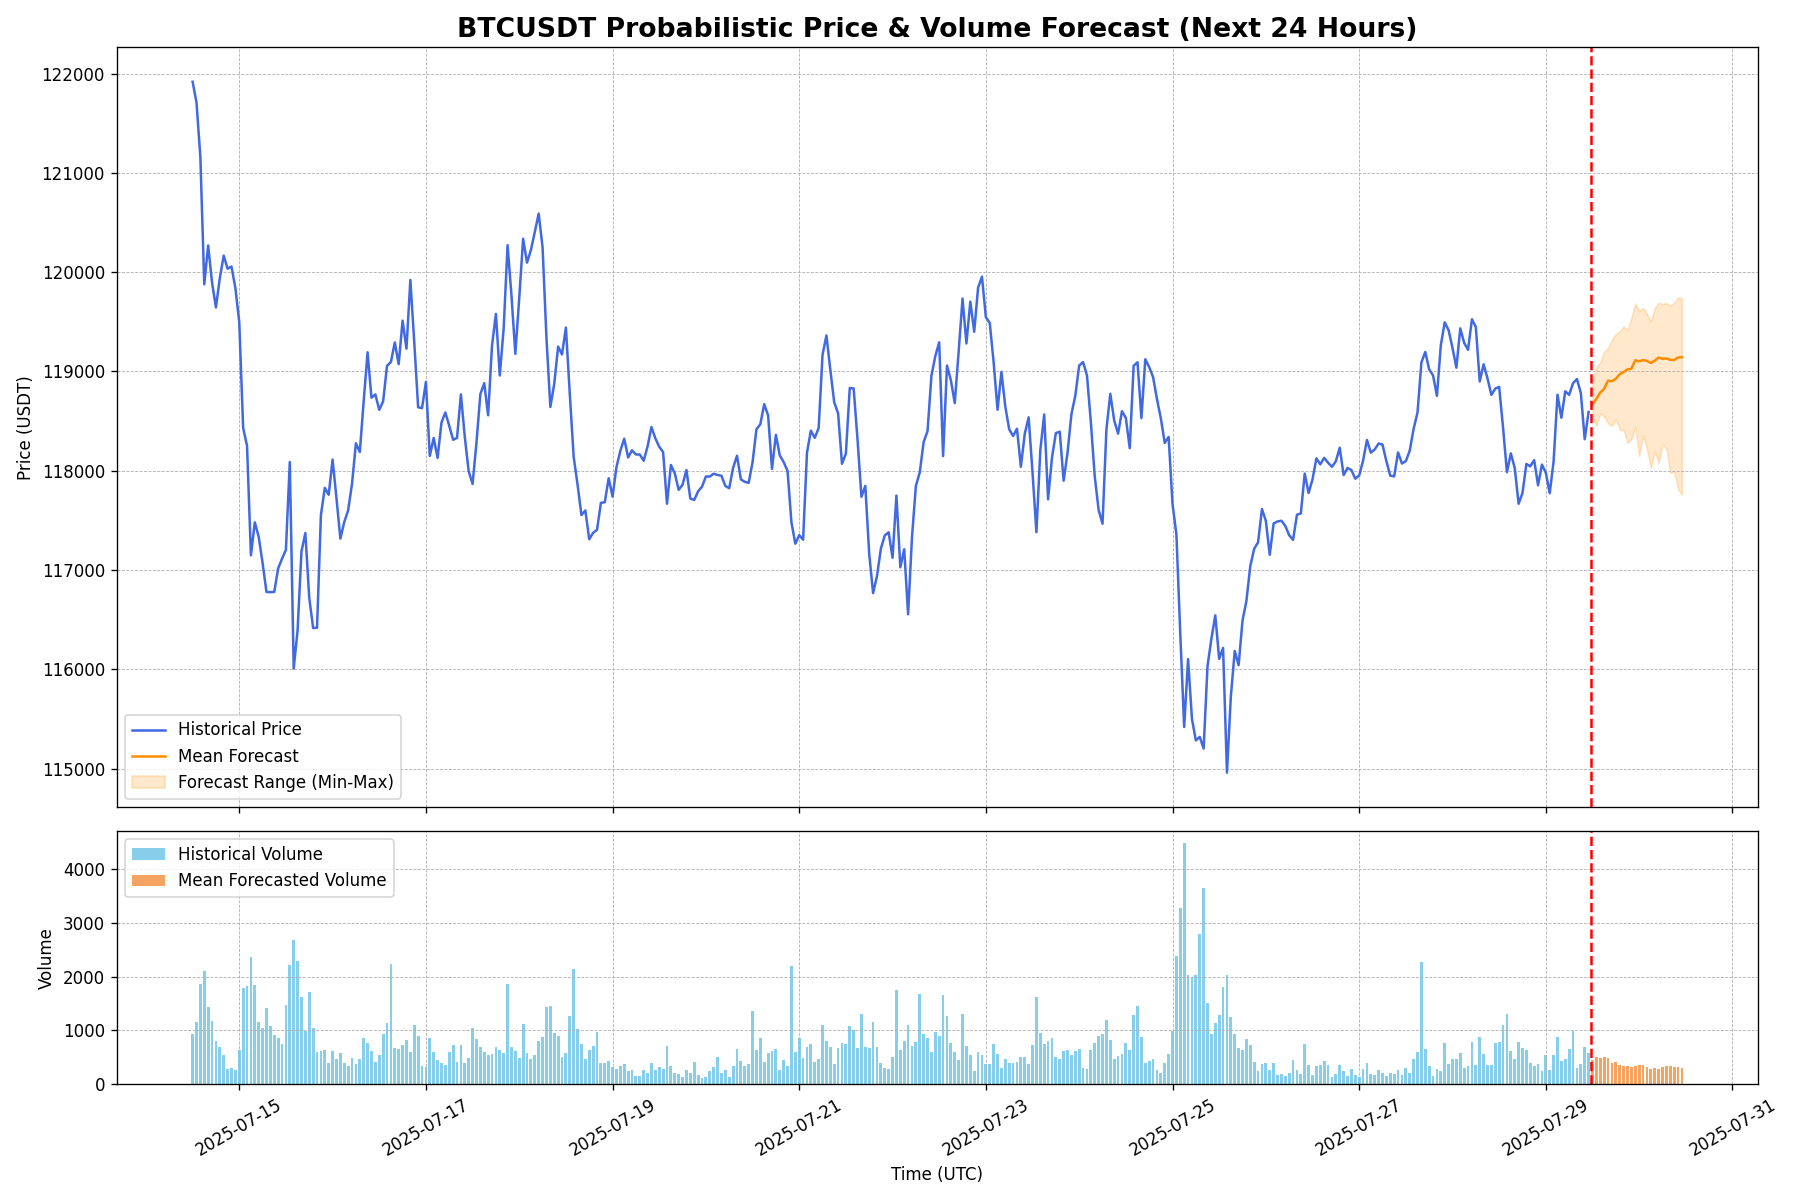
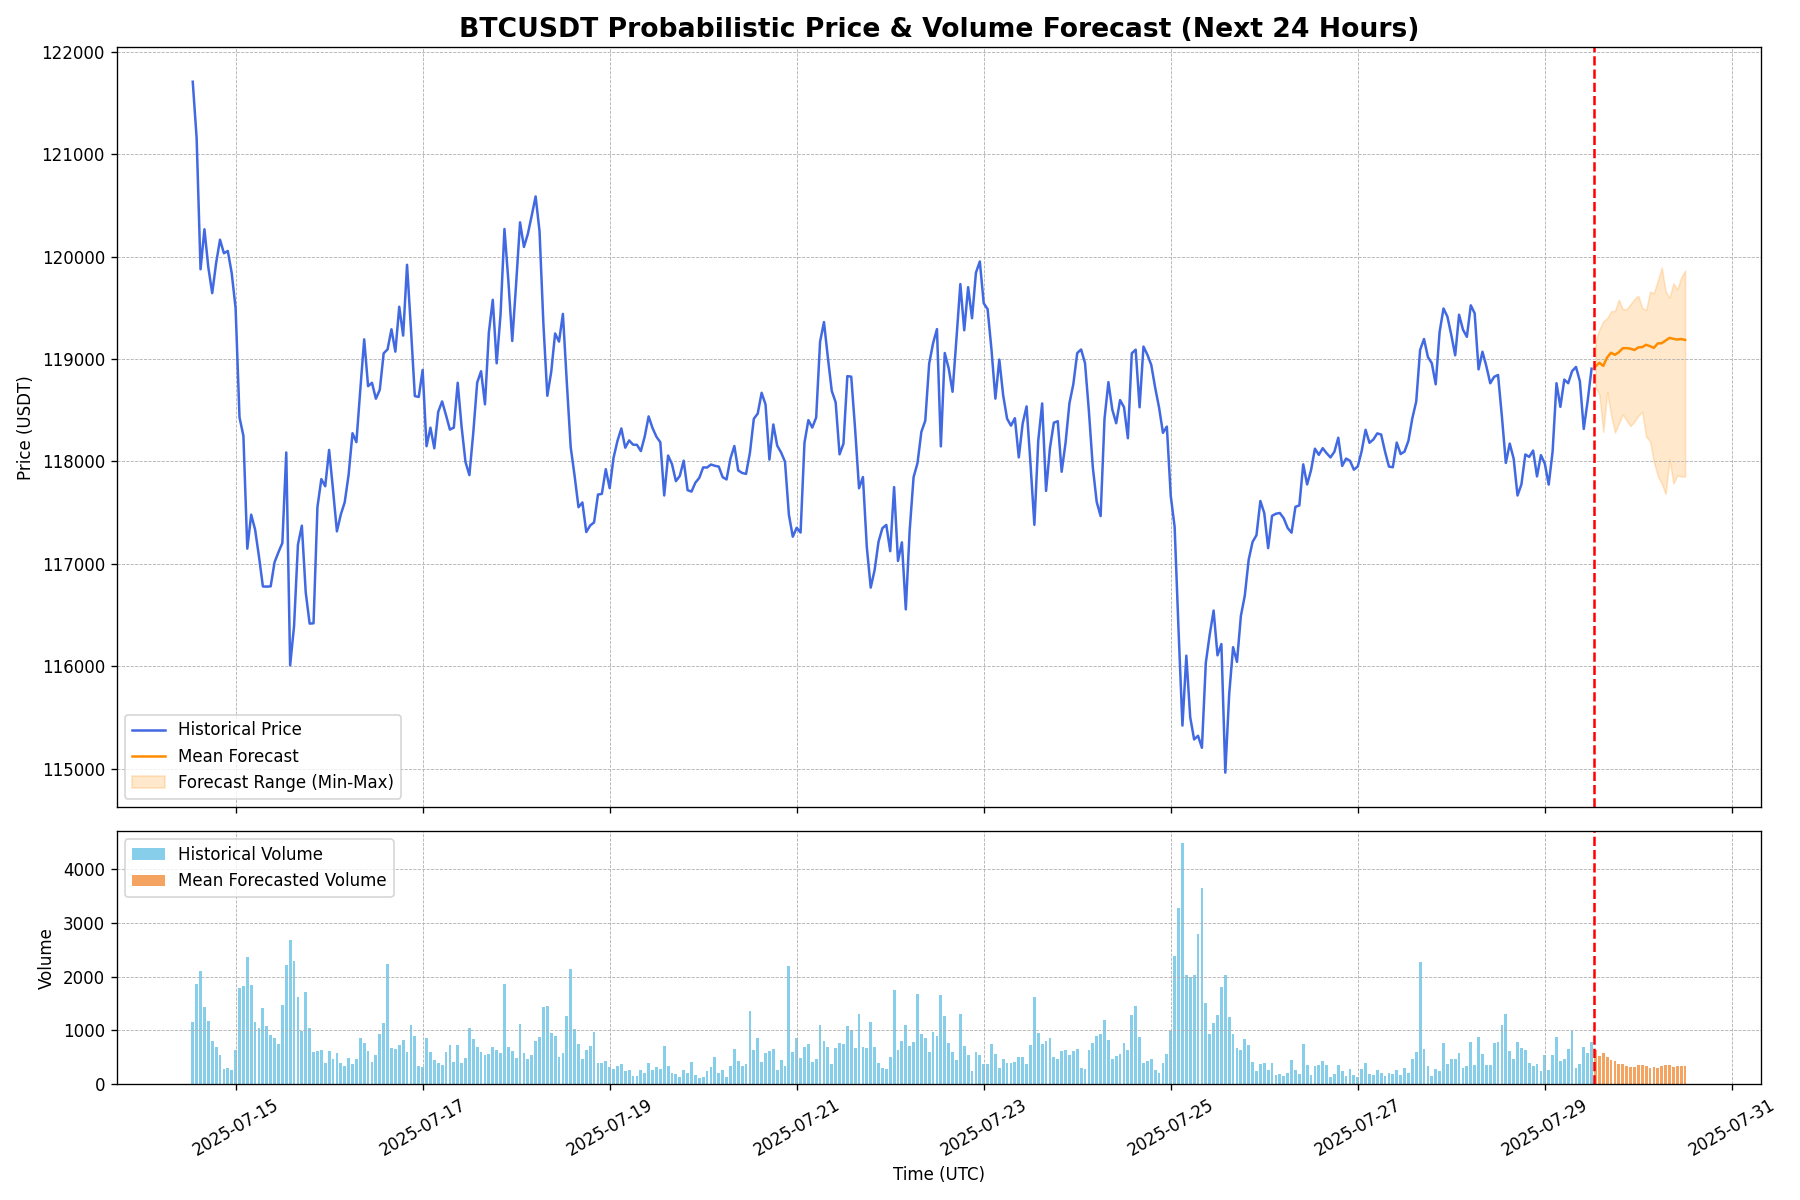
Auto-update forecast for 2025-07-29 13:06 UTC

diff --git a/index.html b/index.html
@@ -22,19 +22,19 @@
         <section id="live-dashboard">
             <h2>Live BTC/USDT Forecast Dashboard</h2>
             <div class="metadata">
-                <span>Last Updated (UTC): <strong id="update-time">2025-07-29 12:06:04</strong></span>
+                <span>Last Updated (UTC): <strong id="update-time">2025-07-29 13:06:03</strong></span>
                 <span>Data Source: Binance | Interval: 1-Hour</span>
             </div>
 
             <div class="metrics-container">
                 <div class="metric-card">
                     <h3>Upside Probability (Next 24h)</h3>
-                    <p class="metric-value" id="upside-prob">93.3%</p>
+                    <p class="metric-value" id="upside-prob">80.0%</p>
                     <div class="metric-desc">The model's confidence that the price in 24 hours will be higher than the last known price.</div>
                 </div>
                 <div class="metric-card">
                     <h3>Volatility Amplification (Next 24h)</h3>
-                    <p class="metric-value" id="vol-amp-prob">0.0%</p>
+                    <p class="metric-value" id="vol-amp-prob">3.3%</p>
                     <div class="metric-desc">The probability that predicted volatility over the next 24h will exceed recent historical volatility.</div>
                 </div>
             </div>
